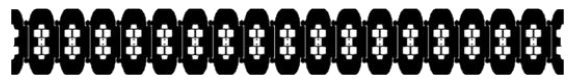
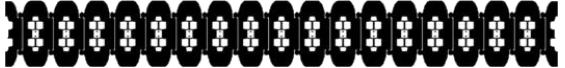
singleplayer game works now; loading screen added

diff --git a/game/gui/display_manager.py b/game/gui/display_manager.py
@@ -1,8 +1,9 @@
 import os
 
-from game.constants import FPS_MAX, SCREEN_WIDTH, SCREEN_HEIGHT, MENU_BACKGROUND_IMAGE, GUI_ICON_PATH, \
-    GAME_BACKGROUND, TRACKS_IMAGE_PATH
-from game.gui.menu import *
+from constants import FPS_MAX, SCREEN_WIDTH, SCREEN_HEIGHT, MENU_BACKGROUND_IMAGE, GUI_ICON_PATH, \
+    GAME_BACKGROUND, GUI_CAPTION
+from gui.loading_screen import LoadingScreen
+from gui.menu import *
 from tests.multiplayer_game import multiplayer_game
 from tests.single_player_game import single_player_game
 
@@ -19,7 +20,7 @@ class DisplayManager:
 
         self.__screen = pygame.display.set_mode((SCREEN_WIDTH, SCREEN_HEIGHT))
 
-        pygame.display.set_caption("Team Segfault")
+        pygame.display.set_caption(GUI_CAPTION)
 
         self.__running = True
         self.__playing = False
@@ -31,10 +32,11 @@ class DisplayManager:
         # load images
         self.__background_image = pygame.transform.scale(pygame.image.load(MENU_BACKGROUND_IMAGE),
                                                          (SCREEN_WIDTH, SCREEN_HEIGHT))
-        self.__tracks_image = pygame.image.load(TRACKS_IMAGE_PATH)
 
         # create menu
         self.__menu = Menu(SCREEN_WIDTH / 2, SCREEN_HEIGHT / 3, self.__start_the_game)
+
+        self.__loading_screen = LoadingScreen()
 
     def __start_the_game(self) -> None:
         del self.__game
@@ -42,6 +44,7 @@ class DisplayManager:
         SOUND_VOLUME[0] = self.__menu.get_volume()
         PLAYER_NAMES[0] = self.__menu.get_player_name()
         GAME_NAME[0] = self.__menu.get_map_name()
+        GAME_SPEED[0] = self.__menu.get_game_speed()
         game_type = self.__menu.get_game_type()
         match game_type:
             case GameType.SINGLEPLAYER:
@@ -57,7 +60,6 @@ class DisplayManager:
                 self.__menu.enable()
                 return
         self.__playing = True
-        # self.__start_loading_screen()
         self.__game.start()
 
     def __check_events(self) -> list[pygame.event.Event]:
@@ -70,19 +72,6 @@ class DisplayManager:
                 self.__playing = False
                 self.__running = False
         return events
-
-    def __start_loading_screen(self) -> None:
-        pass
-        # rect = self.__tracks_image.get_rect()
-        # start = time.time()
-        # start += 1
-        # while time.time() < start:
-        #     self.__screen.blit(self.__tracks_image, (50, SCREEN_HEIGHT / 2))
-        #     # delay for a constant framerate
-        #     self.__clock.tick(FPS_MAX)
-        #
-        #     # update display
-        #     pygame.display.flip()
 
     def run(self) -> None:
         try:
@@ -102,16 +91,22 @@ class DisplayManager:
                 self.__menu.update(events)
                 self.__menu.draw(self.__screen)
 
-            # draw the map if the game started
-            if self.__playing and not self.__game.over.is_set() and self.__game.game_map:
-                self.__game.game_map.draw(self.__screen)
+            # draw the map or loading screen if the game started
+            if self.__playing and not self.__game.over.is_set():
+                if self.__game.game_map:
+                    self.__game.game_map.draw(self.__screen)
+                else:
+                    self.__loading_screen.draw(self.__screen)
 
             # check if game has ended
             if self.__playing and self.__game.over.is_set():
-                # EndScreen.draw_podium(self.__screen, {})
-                # self.__clock.tick(FPS_MAX)
-                # pygame.display.flip()
+                self.__loading_screen.reset()
+                self.__playing = False
                 self.__menu.enable()
+
+            # draw end screen if
+            # if self.__end_screen.enabled:
+            #     self.__end_screen.draw()
 
             # delay for a constant framerate
             self.__clock.tick(FPS_MAX)

diff --git a/game/gui/menu.py b/game/gui/menu.py
@@ -4,7 +4,7 @@ import pygame
 import pygame_menu
 
 from constants import MENU_POSITION, SOUND_VOLUME, PLAYER_NAMES, GAME_NAME, WHITE, MENU_BACKGROUND_COLOR, \
-    MENU_SELECTED_TEXT_COLOR
+    MENU_SELECTED_TEXT_COLOR, GAME_SPEED, MENU_MIN_WIDTH
 
 
 class GameType(StrEnum):
@@ -38,13 +38,15 @@ class Menu:
 
         self.__main_menu.add.button('Quit', pygame_menu.events.EXIT)
         Menu.set_menu_size(self.__main_menu)
-        menu_scale = 2.5
-        self.__main_menu.resize(self.__main_menu.get_width() * menu_scale, self.__main_menu.get_height())
+        if self.__main_menu.get_width() < MENU_MIN_WIDTH:
+            self.__main_menu.resize(MENU_MIN_WIDTH, self.__main_menu.get_height())
 
     def __create_options_menu(self) -> None:
         self.__options_menu: pygame_menu.Menu = pygame_menu.Menu('Options', self.__menu_width, self.__menu_height,
                                                                  theme=self.__menu_theme, mouse_motion_selection=True)
         self.__options_menu.add.button('Back', pygame_menu.events.BACK)
+        self.__options_menu.add.range_slider('Game speed', default=GAME_SPEED[0], range_values=(0, 1), increment=0.1,
+                                             rangeslider_id='game_speed_slider')
         self.__options_menu.add.range_slider('Volume', default=SOUND_VOLUME[0], range_values=(0, 1),
                                              increment=0.1, rangeslider_id='volume_slider')
 
@@ -111,6 +113,9 @@ class Menu:
 
     def get_game_type(self) -> int:
         return self.__play_menu.get_widget('game_type').get_value()[0][0]
+
+    def get_game_speed(self) -> float:
+        return self.__options_menu.get_widget('game_speed_slider').get_value()
 
     @staticmethod
     def set_menu_size(menu: pygame_menu.Menu) -> None:

diff --git a/game/gui/loading_screen.py b/game/gui/loading_screen.py
@@ -1,0 +1,33 @@
+import pygame
+
+from constants import TRACKS_SCALE, TRACKS_IMAGE_PATH, LOADING_ANIMATION_LIMIT, SCREEN_WIDTH, SCREEN_HEIGHT, \
+    LOADING_BAR_COLOR, TANK_ICON_PATH
+
+
+class LoadingScreen:
+    def __init__(self):
+        self.__tracks_image = pygame.transform.scale(pygame.image.load(TRACKS_IMAGE_PATH), TRACKS_SCALE)
+        self.__max_width: int = self.__tracks_image.get_width()
+        self.__height: int = self.__tracks_image.get_height()
+        # x, y coordinates that represent top left corner of a 'full' loading bar
+        self.__x: int = (SCREEN_WIDTH - self.__max_width) // 2
+        self.__y: int = (SCREEN_HEIGHT - self.__height) // 2
+        self.__loading_counter = LOADING_ANIMATION_LIMIT
+        self.__step: int = self.__max_width // LOADING_ANIMATION_LIMIT
+        self.__tank_image = pygame.transform.scale(
+            pygame.transform.flip(pygame.image.load(TANK_ICON_PATH), flip_x=True, flip_y=False),
+            (TRACKS_SCALE[1], TRACKS_SCALE[1]))
+
+    def draw(self, screen) -> None:
+        # calculating top left coordinates because image is centered
+        screen.blit(self.__tracks_image, (self.__x, self.__y))
+        new_x = self.__x + self.__step * (LOADING_ANIMATION_LIMIT - self.__loading_counter)
+        pygame.draw.rect(screen, LOADING_BAR_COLOR,
+                         (new_x, self.__y, self.__max_width - new_x + self.__x, self.__height))
+        screen.blit(self.__tank_image, (new_x, self.__y))
+
+        if self.__loading_counter > 0:
+            self.__loading_counter -= 1
+
+    def reset(self) -> None:
+        self.__loading_counter = LOADING_ANIMATION_LIMIT

diff --git a/game/constants.py b/game/constants.py
@@ -5,23 +5,26 @@ HOST_PORT = 443
 GAME_NAME = ['Test game ']
 
 # gui constants
+GUI_CAPTION = 'Team Segfault'
 FPS_MAX = 30  # max frames per second
 SCREEN_SIZE = 250
 SCREEN_RATIO = (4, 3)
 SCREEN_WIDTH = SCREEN_RATIO[0] * SCREEN_SIZE
 SCREEN_HEIGHT = SCREEN_RATIO[1] * SCREEN_SIZE
-
 HEX_RADIUS_X = [-1]
 HEX_RADIUS_Y = [-1]
+
+# position of menus in %, relative to the window size
+MENU_POSITION = (0, 100)
+MENU_MIN_WIDTH = SCREEN_WIDTH / 4
+TRACKS_SCALE = (SCREEN_WIDTH * 3 / 4, SCREEN_HEIGHT / 10)
+LOADING_ANIMATION_LIMIT = 30
 
 # colors
 BLACK = (0, 0, 0)
 WHITE = (255, 255, 255)
 GAME_BACKGROUND = (47, 31, 128)
 PLAYER_COLORS = ((224, 206, 70), (70, 191, 224), (201, 26, 40))  # yellow, blue, red
-PLAYER1_COLOR = (224, 206, 70)  # yellow
-PLAYER2_COLOR = (70, 191, 224)  # blue
-PLAYER3_COLOR = (201, 26, 40)  # red
 BASE_COLOR = (39, 161, 72)
 EMPTY_COLOR = (87, 81, 81)
 OBSTACLE_COLOR = (51, 46, 46)
@@ -32,10 +35,14 @@ MENU_SELECTED_TEXT_COLOR = (48, 240, 144)
 MENU_BACKGROUND_TEXT_COLOR = (0, 0, 255, 128)
 MENU_BACKGROUND_COLOR = (62, 62, 66, 192)
 
+LOADING_BAR_COLOR = (55, 84, 38)
+
 # player names
 PLAYER_NAMES = ['Playa', 'Bot 1', 'Bot 2', 'Bot 3']
 
-# sound options
+# game options
+# game speed range is [0.0 - 1.0]; represents (1 - game_speed) seconds sleep between turns
+GAME_SPEED = [1.0]
 SOUND_VOLUME = [0.0]
 
 # sound paths
@@ -67,5 +74,3 @@ TRACKS_IMAGE_PATH = 'game/assets/tracks.png'
 
 # other
 BULLET_VECTOR = (1, 0)
-# position of menus in %, relative to the window size
-MENU_POSITION = (0, 100)

diff --git a/game/players/bot_player.py b/game/players/bot_player.py
@@ -1,5 +1,7 @@
+import time
 from threading import Semaphore, Event
 
+from constants import GAME_SPEED
 from entities.entity_enum import Entities
 from entities.tanks.tank import Tank
 from players.player import Player
@@ -22,7 +24,9 @@ class BotPlayer(Player):
         try:
             # play your move if you are the current player
             if self._current_player[0] == self.idx:
-                # time.sleep(1)  # comment/uncomment this for a turn delay effect
+                delay = 1.0 - GAME_SPEED[0]
+                if delay > 0:
+                    time.sleep(delay)  # comment/uncomment this for a turn delay effect
                 self.__place_actions()
         finally:
             # end your turn
@@ -103,7 +107,8 @@ class BotPlayer(Player):
         elif where == 'in base':
             go_to = self._map.closest_free_bases(who_coord)
         elif where == 'close enemy':
-            go_to = who.shot_moves(self._map.closest_enemies(who)[0].coord)
+            if self._map.closest_enemies(who):
+                go_to = who.shot_moves(self._map.closest_enemies(who)[0].coord)
         if go_to:  # TODO: Solve this dirty fix, find out why 'go_to' is None in edge cases
             for coord in go_to:
                 if who_coord == coord or self.__move_to_if_possible(who, coord):

diff --git a/game/gui/map_utils/map_drawer.py b/game/gui/map_utils/map_drawer.py
@@ -41,14 +41,14 @@ class MapDrawer:
         self.__map_legend_items = []
         features = [Empty, Base, Obstacle]
         # non-special hexes will always be on the screen and on top right, while bonuses will be on bottom right
-        x, y, z = self.__map_size + 1, self.__map_size - 2, -self.__map_size - 1
+        x, y, z = self.__map_size, self.__map_size - 1, -self.__map_size - 1
         for i, feature in enumerate(features):
-            self.__map_legend_items.append(feature((x - 1, y - i + 1, z + i)))
+            self.__map_legend_items.append(feature((x, y - i, z + i)))
 
-        x, y, z = self.__map_size + 1, -self.__map_size + 2, self.__map_size + 1
+        x, y, z = self.__map_size + 2, -self.__map_size + 2, self.__map_size
         bonuses = [Catapult, LightRepair, HardRepair]
         for i, bonus in enumerate(bonuses):
-            self.__map_legend_items.append(bonus((x + 1, y + i, z - i - 1)))
+            self.__map_legend_items.append(bonus((x, y + i, z - i)))
 
         # tanks
         self.__tanks: Group = Group()

diff --git a/game/players/player.py b/game/players/player.py
@@ -2,7 +2,7 @@ from abc import abstractmethod, ABC
 from dataclasses import dataclass
 from threading import Thread, Semaphore, Event
 
-from constants import PLAYER1_COLOR, PLAYER2_COLOR, PLAYER3_COLOR
+from constants import PLAYER_COLORS
 from entities.tanks.tank import Tank
 from game_map.map import Map
 from remote.game_client import GameClient
@@ -12,7 +12,7 @@ from remote.game_client import GameClient
 class Player(Thread, ABC):
     """ Abstract base player class """
     __type_order = ('spg', 'light_tank', 'heavy_tank', 'medium_tank', 'at_spg')
-    __possible_colours = (PLAYER1_COLOR, PLAYER2_COLOR, PLAYER3_COLOR)
+    __possible_colours = PLAYER_COLORS
 
     def __init__(self,
                  turn_played_sem: Semaphore, current_player: list[int], player_index: int, over: Event,

diff --git a/README.md b/README.md
@@ -49,5 +49,3 @@ without it, in which case no window will be rendered, and only console output ca
 [Tank icon for pygame window](https://www.flaticon.com/free-icon/tank_3111508)
 
 [Tank tracks](https://www.dreamstime.com/tank-tracks-set-track-treads-isolated-white-various-caterpillar-impressed-heavy-vehicles-like-tractors-bulldozers-image198577121)
-
-[Catapult image](https://opengameart.org/content/catapult-1)
